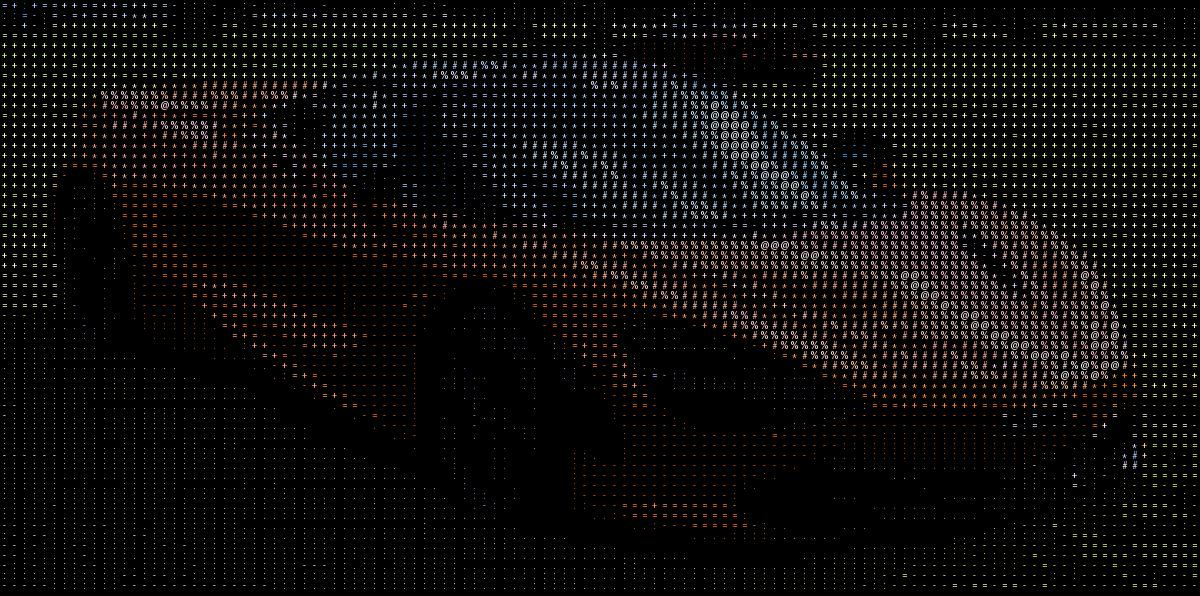
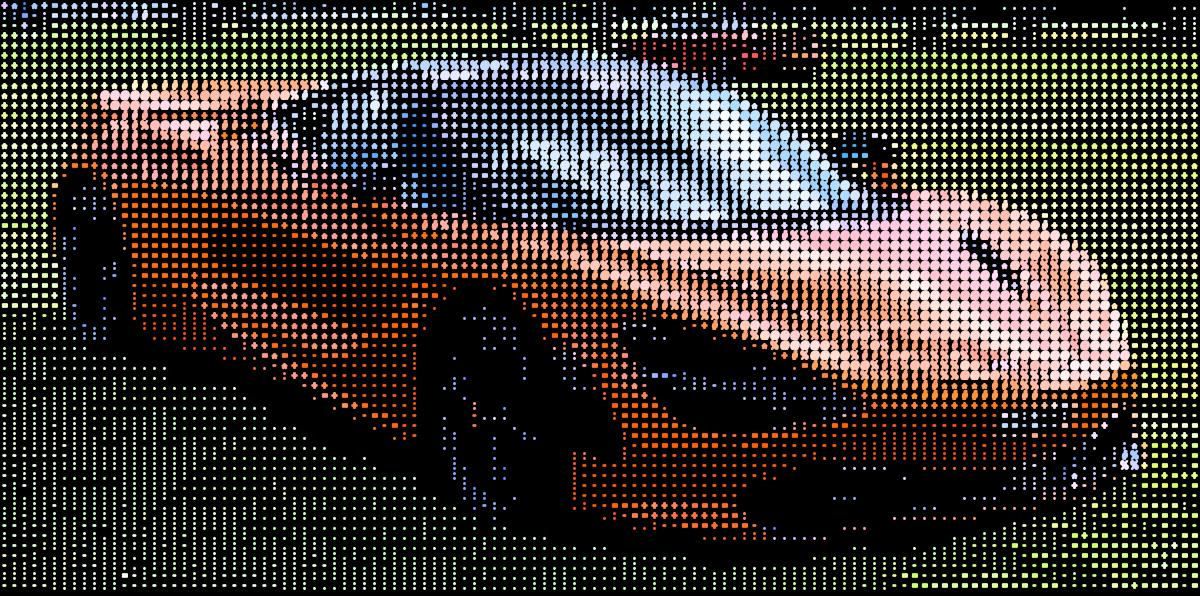
fix(ascii): bold glyphs and stretched range so the output is readable
Thin glyphs on an absolute brightness scale left mid-tones on the blank
end of the charset, so the README example read as near-black. Bold strokes
and a per-image stretch put those tones on dense glyphs. A flat image has
no range to stretch, so it keeps absolute brightness and white still maps
to a visible glyph.

diff --git a/ascii/ascii.py b/ascii/ascii.py
@@ -15,7 +15,7 @@ def glyph_masks(charset: str, cell: int) -> np.ndarray:
     masks = []
     for ch in charset:
         tile = Image.new("L", (cell, cell), 0)
-        ImageDraw.Draw(tile).text((cell / 2, cell / 2), ch, fill=255, font=font, anchor="mm")
+        ImageDraw.Draw(tile).text((cell / 2, cell / 2), ch, fill=255, font=font, anchor="mm", stroke_width=1, stroke_fill=255)
         masks.append(np.array(tile, dtype=np.float64) / 255.0)
     return np.stack(masks)
 
@@ -45,7 +45,13 @@ def main() -> None:
 
     small = np.array(img.resize((cols, rows), Image.BOX), dtype=np.float64)
     lum = small @ np.array([0.299, 0.587, 0.114])
-    idx = np.clip((lum / 256.0 * len(args.charset)).astype(int), 0, len(args.charset) - 1)
+    # Stretch brightness to this image's own range so mid-tones reach the dense glyphs.
+    # A flat image has no range to stretch, so keep absolute brightness (white stays a glyph).
+    lo, hi = np.percentile(lum, 2), np.percentile(lum, 98)
+    if hi - lo < 1.0:
+        lo, hi = 0.0, 256.0
+    norm = np.clip((lum - lo) / max(hi - lo, 1.0), 0.0, 1.0)
+    idx = np.clip((norm * len(args.charset)).astype(int), 0, len(args.charset) - 1)
 
     masks = glyph_masks(args.charset, args.cell)
     coverage = masks[idx].transpose(0, 2, 1, 3).reshape(rows * args.cell, cols * args.cell)

diff --git a/tests/test_ascii.py b/tests/test_ascii.py
@@ -62,3 +62,12 @@ class TestAscii:
     def test_no_args(self, run_tool):
         r = run_tool("ascii", "ascii.py", [])
         assert r.returncode != 0
+
+    def test_output_is_not_near_black(self, run_tool, tmp_workdir):
+        """Bold glyphs and a stretched range keep the output readable on black."""
+        tmp_path, img = tmp_workdir
+        out = str(tmp_path / "out.png")
+        r = run_tool("ascii", "ascii.py", [img, out, "--cell", "8"])
+        assert r.returncode == 0
+        mean = np.asarray(Image.open(out).convert("RGB"), dtype=np.float64).mean()
+        assert mean > 30, f"Output too dark: mean {mean:.1f}"

diff --git a/README.md b/README.md
@@ -502,7 +502,7 @@ Default: `--quality 10 --generations 30`
 
 ### ascii
 
-Replace each cell with a character chosen by brightness, drawn in the cell's hue on black.
+Replace each cell with a bold character chosen by brightness, stretched to the image's own range, drawn in the cell's hue on black.
 
 ```bash
 python3 ./ascii/ascii.py <input> [output] [--cell PX] [--charset CHARS]
